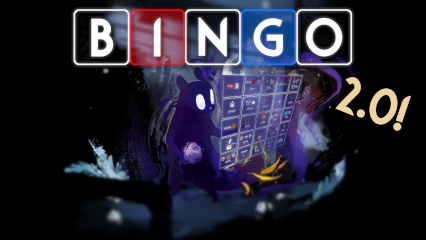
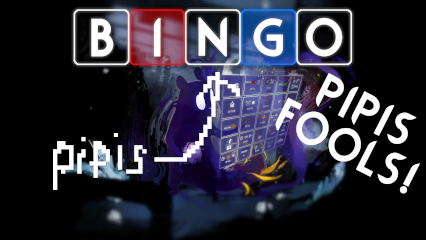
april fools update

diff --git a/BingoMode/BingoHUD/BingoHUDMain.cs b/BingoMode/BingoHUD/BingoHUDMain.cs
@@ -762,21 +762,8 @@ namespace BingoMode.BingoHUD
                                     }
                                 }
                             }
-                            if (obj.type == AbstractPhysicalObject.AbstractObjectType.DangleFruit)
-                            {
-                                Random.State state = Random.state;
-                                Random.InitState(obj.ID.RandomSeed);
-                                // 1/999
-                                if (Random.value < 0.000999f)
-                                {
-                                    BingoHUDHint hint = new BingoHUDHint(obj.realizedObject, room.abstractRoom.index, "pipis", Color.white, new Vector2(-17f, -22f), player.abstractCreature.world.game.cameras[0]);
-                                    hints.Add(hint);
-                                    hud.fContainers[1].AddChild(hint.sprite);
-                                    Random.state = state;
-                                    continue;
-                                }
-                                Random.state = state;
-                            }
+                            TheSilly(obj, room, player, hints, hud);
+                            
                             if (obj.realizedObject is HalcyonPearl p &&
                                 p.grabbedBy.Count == 0 && 
                                 p.hoverPos == null &&
@@ -805,6 +792,17 @@ namespace BingoMode.BingoHUD
                 PressTallyUp();
                 ForceTallyUp = false;
             }
+        }
+
+        public static void TheSilly(AbstractPhysicalObject obj, Room room, Player player, List<BingoHUDHint> hints, HUD.HUD hud)
+        {
+            //if (obj.type == AbstractPhysicalObject.AbstractObjectType.DangleFruit)
+            //{
+                BingoHUDHint hint = new BingoHUDHint(obj.realizedObject, room.abstractRoom.index, "pipis", Color.white, new Vector2(-17f, -22f), player.abstractCreature.world.game.cameras[0]);
+                hints.Add(hint);
+                hud.fContainers[1].AddChild(hint.sprite);
+                //return;
+            //}
         }
 
         public static void EndBingoSessionHost()

diff --git a/BingoMode/BingoHooks.cs b/BingoMode/BingoHooks.cs
@@ -1285,7 +1285,7 @@ namespace BingoMode
                 x => x.MatchLdstr("EXPEDITION"),
                 x => x.MatchCallOrCallvirt("Menu.Menu", "Translate")))
             {
-                c.Next.Operand = "BINGO";
+                c.Next.Operand = "PIPIS";
             }
             else Plugin.logger.LogError("BingoExpeditionButtonReplacement broked " + il);
 
@@ -1295,7 +1295,7 @@ namespace BingoMode
         {
             orig.Invoke(self, menu, owner, pos);
 
-            FAtlasElement title = Futile.atlasManager.GetElementWithName("bingotitle");
+            FAtlasElement title = Futile.atlasManager.GetElementWithName("pipis");
             self.pageTitle.element = title;
         }
 

diff --git a/BingoMode/BingoMenu/BingoPage.cs b/BingoMode/BingoMenu/BingoPage.cs
@@ -117,8 +117,8 @@ namespace BingoMode.BingoMenu
             BingoData.TeamsInBingo = [0];
             Vector2 topCenter = new(menu.manager.rainWorld.screenSize.x / 2f, menu.manager.rainWorld.screenSize.y - TITLE_MARGIN);
 
-            normalTitle = Futile.atlasManager.GetElementWithName("bingotitle");
-            watcherTitle = Futile.atlasManager.GetElementWithName("bingotitlewatcher");
+            normalTitle = Futile.atlasManager.GetElementWithName("pipis");
+            watcherTitle = Futile.atlasManager.GetElementWithName("pipis");
 
             nowPlaying = new MenuLabel(menu, owner, expMenu.characterSelect.nowPlaying.label.text, new Vector2(683f, 40f), default(Vector2), true, null);
             nowPlaying.label.color = new Color(0.5f, 0.5f, 0.5f);

diff --git a/BingoMode/Plugin.cs b/BingoMode/Plugin.cs
@@ -28,7 +28,7 @@ namespace BingoMode
     [BepInPlugin(ID, "Bingo", VERSION)]
     public class Plugin : BaseUnityPlugin
     {
-        public const string VERSION = "2.03";
+        public const string VERSION = "2.04";
         public const string ID = "nacu_shrub.bingomode";
         public static bool AppliedAlreadyDontDoItAgainPlease;
         public static bool AppliedAlreadyDontDoItAgainPleasePartTwo;